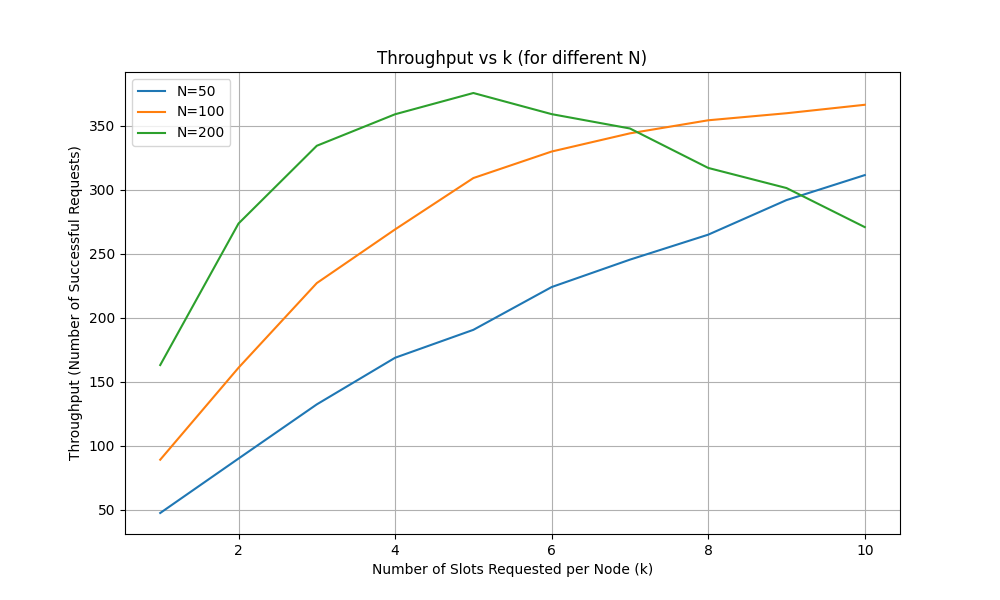
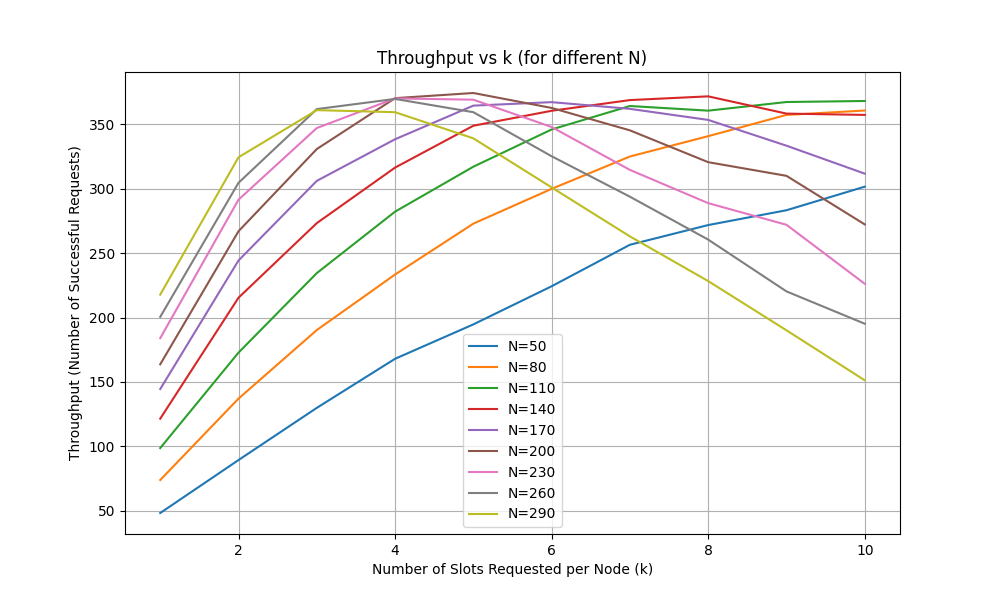
feat: improved evals

diff --git a/throughput/throughputCalc.py b/throughput/throughputCalc.py
@@ -34,7 +34,7 @@ plt.legend()
 plt.grid(True)
 plt.show()
 
-N_values_fixed = [50, 100, 200]
+N_values_fixed = list(range(50, 300, 30))
 k_values = list(range(1, 11))
 plt.figure(figsize=(10,6))
 
